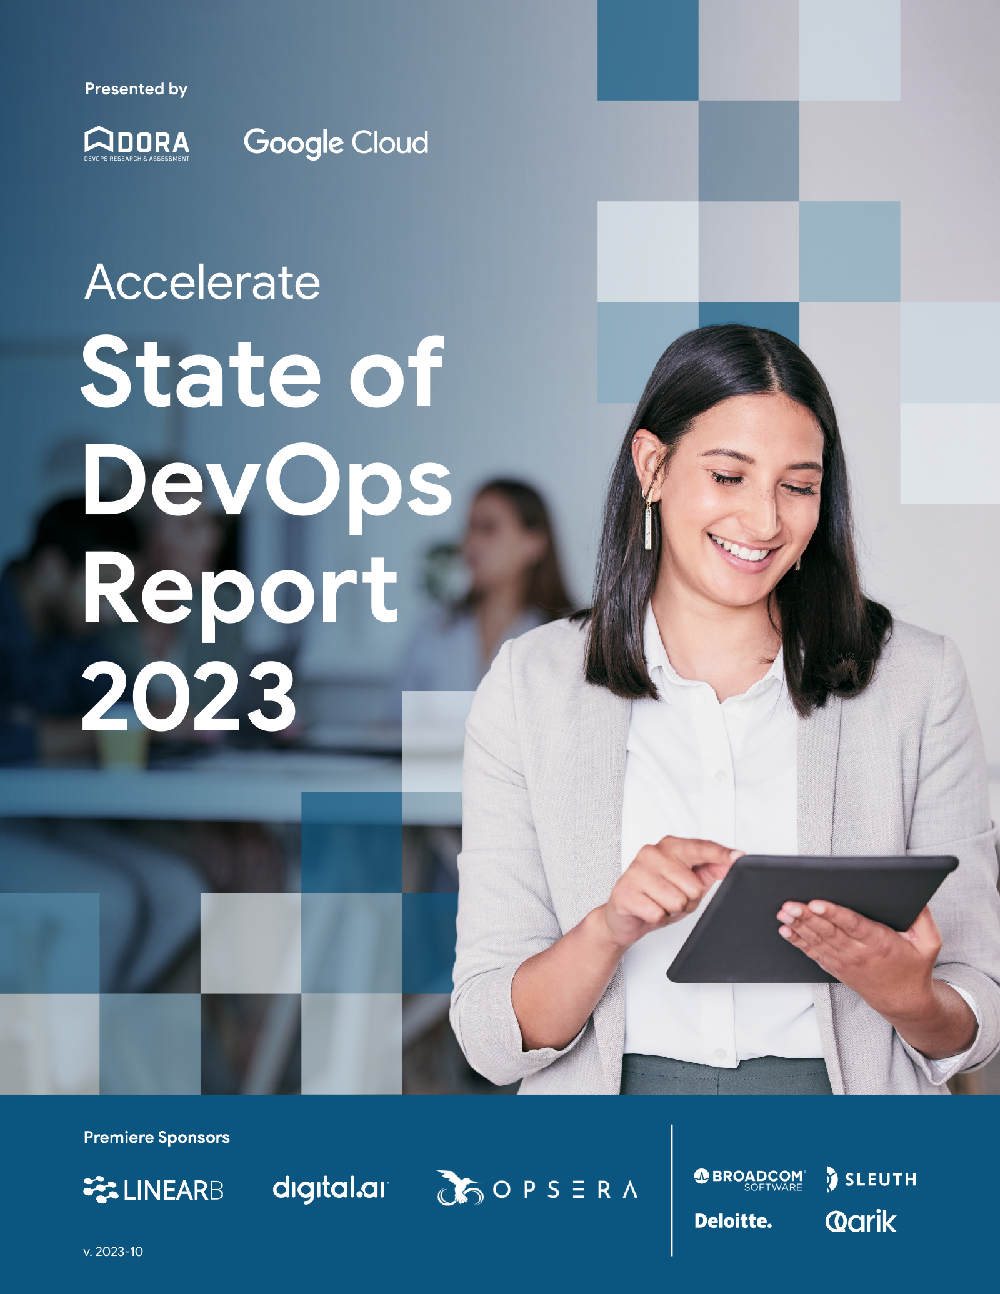
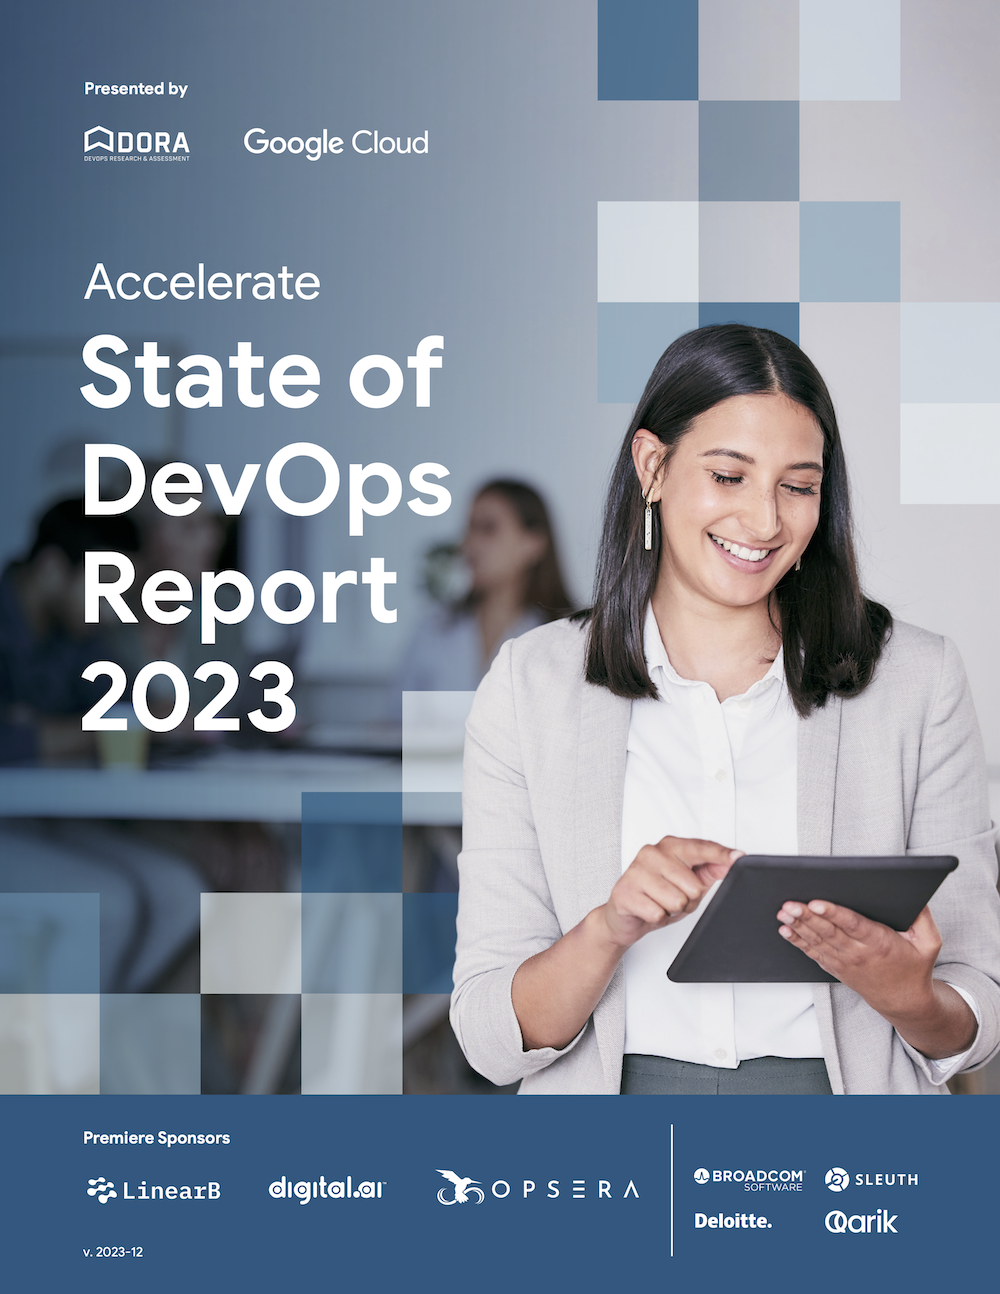
errata 2023

diff --git a/hugo/layouts/contact/section.html b/hugo/layouts/contact/section.html
@@ -36,6 +36,7 @@
                         <option value="Errata">Report an error in a publication</option>
                         <option value="(Other)">General Inquiry</option>
                     </select>
+                    <div x-show="inquiry_type=='Errata'"><em style="font-size:.75rem;font-weight:300">TIP: before reporting an error, check to see if it's already in <a href='{{ ref . "/publications/errata"}}'>reported errata</a></em></div>
                 </div>
                 <label x-show="inquiry_type=='Errata'">Publication:</label>
                 <div x-show="inquiry_type=='Errata'">

diff --git a/hugo/content/research/2023/errata.md b/hugo/content/research/2023/errata.md
@@ -1,0 +1,39 @@
+---
+title: "DORA Research Errata"
+date: 2023-12-07
+research_year: "2023"
+draft: false
+tab_order: "5"
+tab_title: "Errata"
+type: "research_archives"
+---
+
+This page lists errors and corrections to the 2023 Accelerate State of DevOps Report. To track revisions, report PDFs are stamped with a version number. The initial version of the 2023 report was `v.2023-10`. The latest version is [`v.2023-12`]({{< ref "/research/2023/dora-report" >}}).
+
+### Errata in `v.2023-10`
+
+**p.1** On the cover, the Sleuth logo is cut off _[Corrected in `v.2023-12`]_
+
+**p.9** The Knowledge sharing stats are incorrect (Mean: 3.7 IQR: 1.7 - 5 Median: 7.9). They should be as follows: Mean = 6.4 IQR = 5.0 - 8.3 Median = 6.7 _[Corrected in `v.2023-12`]_
+
+**p.25** The footnote description of "Mediation" is unspecific and would benefit from an example. It should be changed to: "Mediation is a test that evaluates possible mechanisms or pathways underlying an effect. You can say, for example, 'the data supports the hypothesis that the effect of trunk-based development on software delivery performance occurs through continuous deployment (the mediator)'. Complete mediation is when the entire effect looks to be explained through the mediator. Partial mediation is when only some of the effect is explained through the mediator." _[Corrected in `v.2023-12`]_
+
+**p.65** The description of Step 3 should read "Hypothesize about potential confounds" _[Corrected in `v.2023-12`]_
+
+**p.71** In the footnote, the link should have destination https://doi.org/10.1037/0022-3514.48.6.1467 but it is incorrectly linked to https://www.zenika.com. _[Corrected in `v.2023-12`]_
+
+**p.77** The word “coach” is misspelled as "couch" _[Corrected in `v.2023-12`]_
+
+**p.82** The word "construct" is misspelled as "contruct" _[Corrected in `v.2023-12`]_
+
+**p.87** The structural equation model for Chapter 5 contains an element: "organizational performance." This element should read "operational performance." _[Corrected in `v.2023-12`]_
+
+**p.90** The heading should read “Chapter 8’s models” (plural). _[Corrected in `v.2023-12`]_
+
+
+-----
+<div style="text-align:center; margin-top:2em;">
+Have you found an error the 2023 Accelerate State of DevOps Report? 
+
+<a href='{{< relref "/contact/" >}}?inquiry_type=Errata&errata_pub=Accelerate+State+of+DevOps+Report+2023' class='button'>Submit a change or correction</a>
+</div>

diff --git a/hugo/content/publications/errata.md b/hugo/content/publications/errata.md
@@ -6,10 +6,12 @@ draft: false
 
 # DORA Publications Errata
 
+### <a href='{{<ref "/research/2023/errata">}}'>Accelerate State of DevOps 2023</a>
+
+-----
+
 <div style="text-align:center; margin-top:2em;">
 Have you found an error in a publication by DORA? 
 
 <a href='{{< relref "/contact/" >}}?inquiry_type=Errata' class='button'>Submit a change or correction</a>
-
-Thank you!
 </div>
